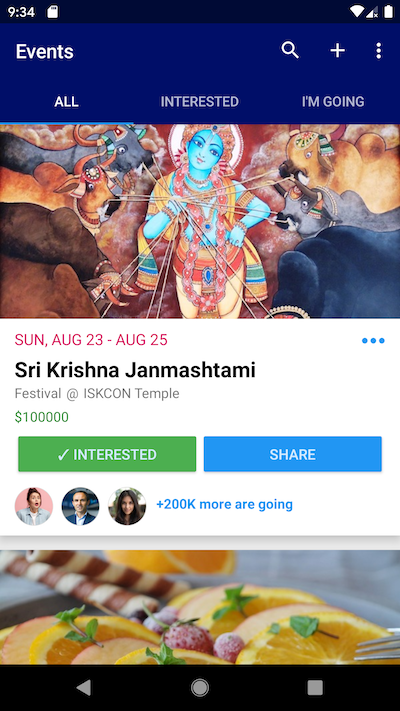
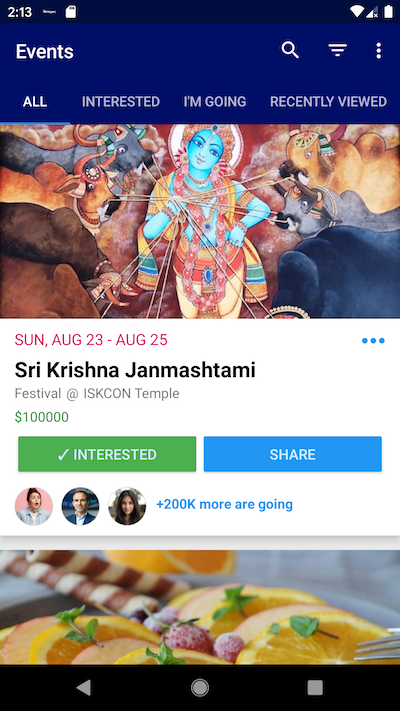
New shots

diff --git a/README.md b/README.md
@@ -24,17 +24,22 @@ Its a fully featured Events App for participating and/or hosting an event!
 
 ![alt text](https://github.com/Singularity-Coder/The-Events-App/blob/master/s4.png)
 
-👆Event details
+👆Event recently viewed
 
 
 ![alt text](https://github.com/Singularity-Coder/The-Events-App/blob/master/s5.png)
 
-👆Filtering events
+👆Events details
 
 
 ![alt text](https://github.com/Singularity-Coder/The-Events-App/blob/master/s6.png)
 
-👆Event Creation screen
+👆Filtering Events
+
+
+![alt text](https://github.com/Singularity-Coder/The-Events-App/blob/master/s7.png)
+
+👆Event Creation
 
 
 
